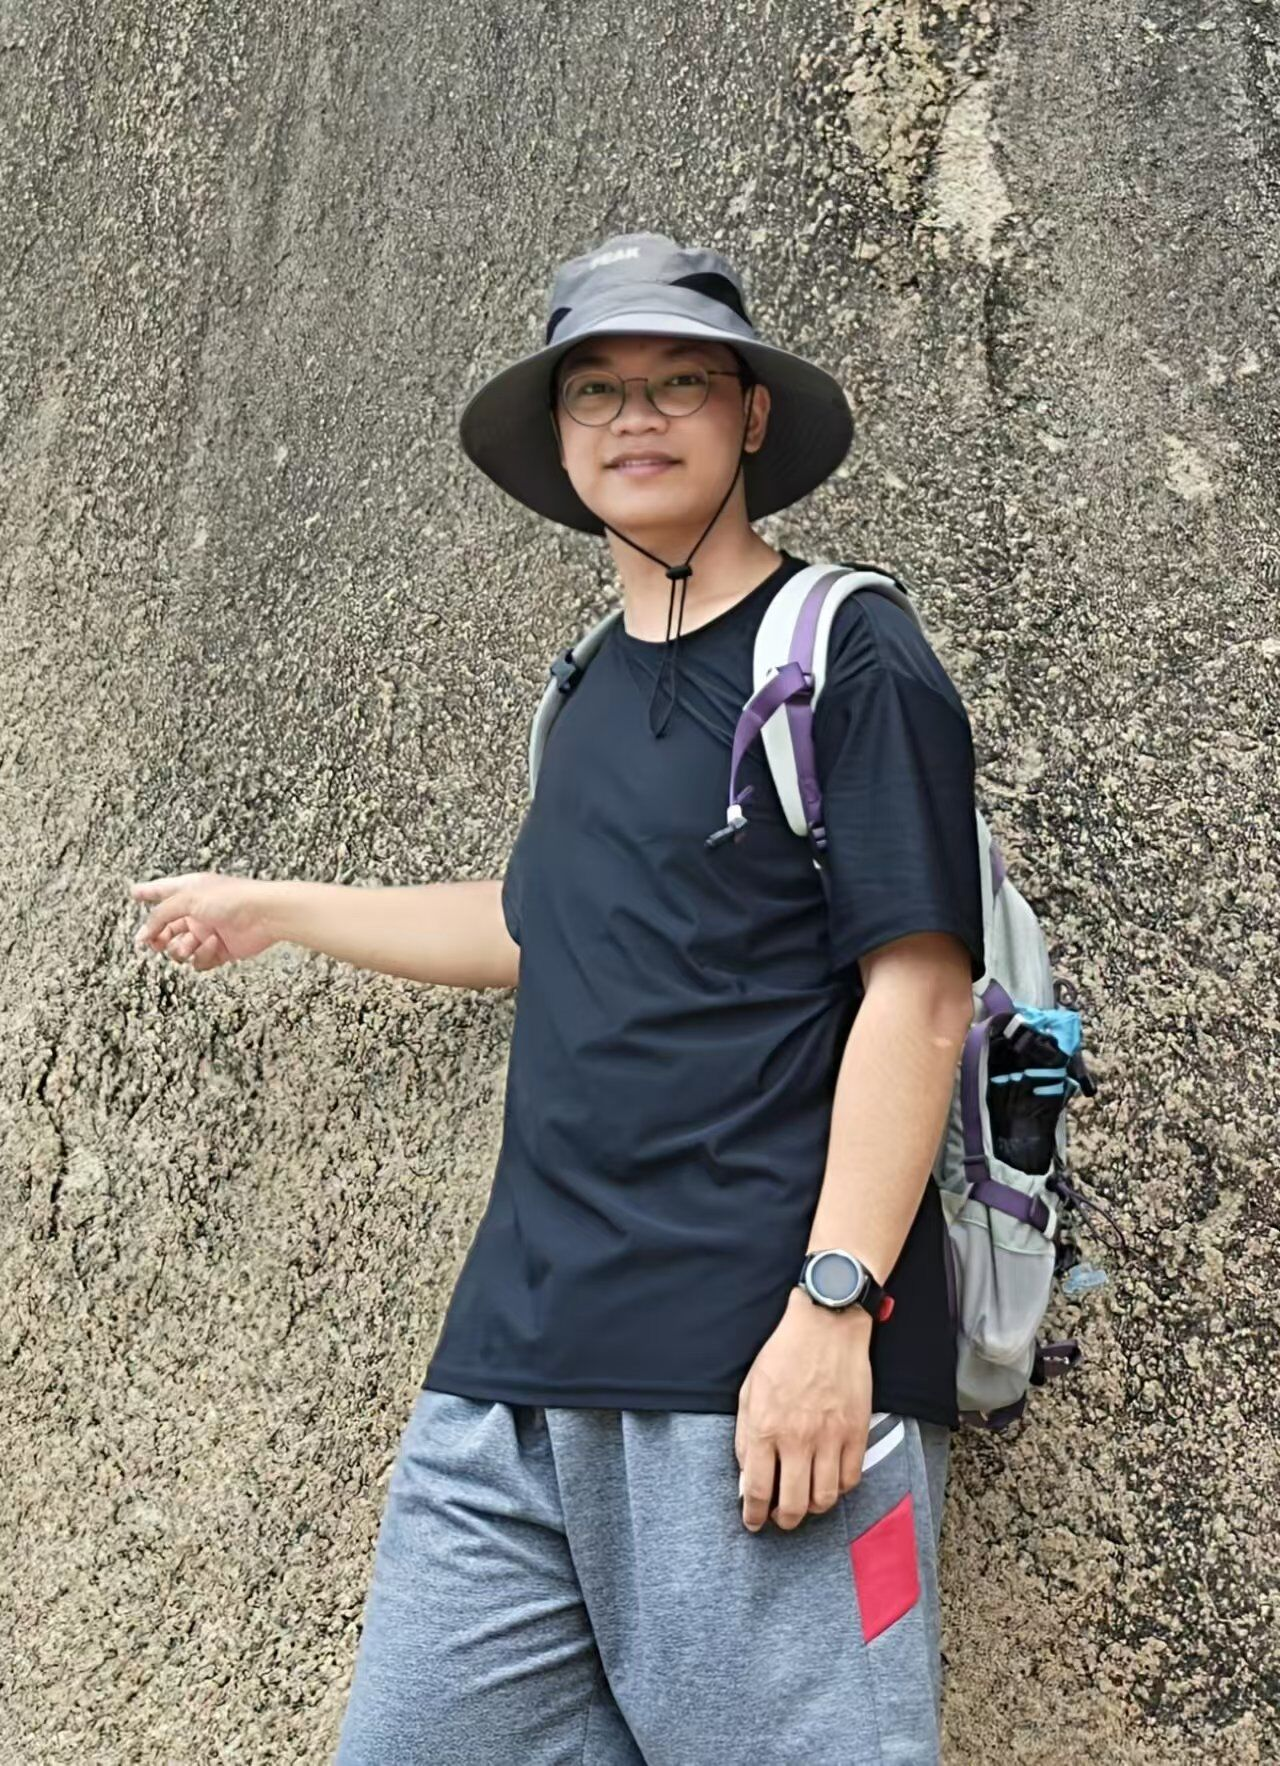
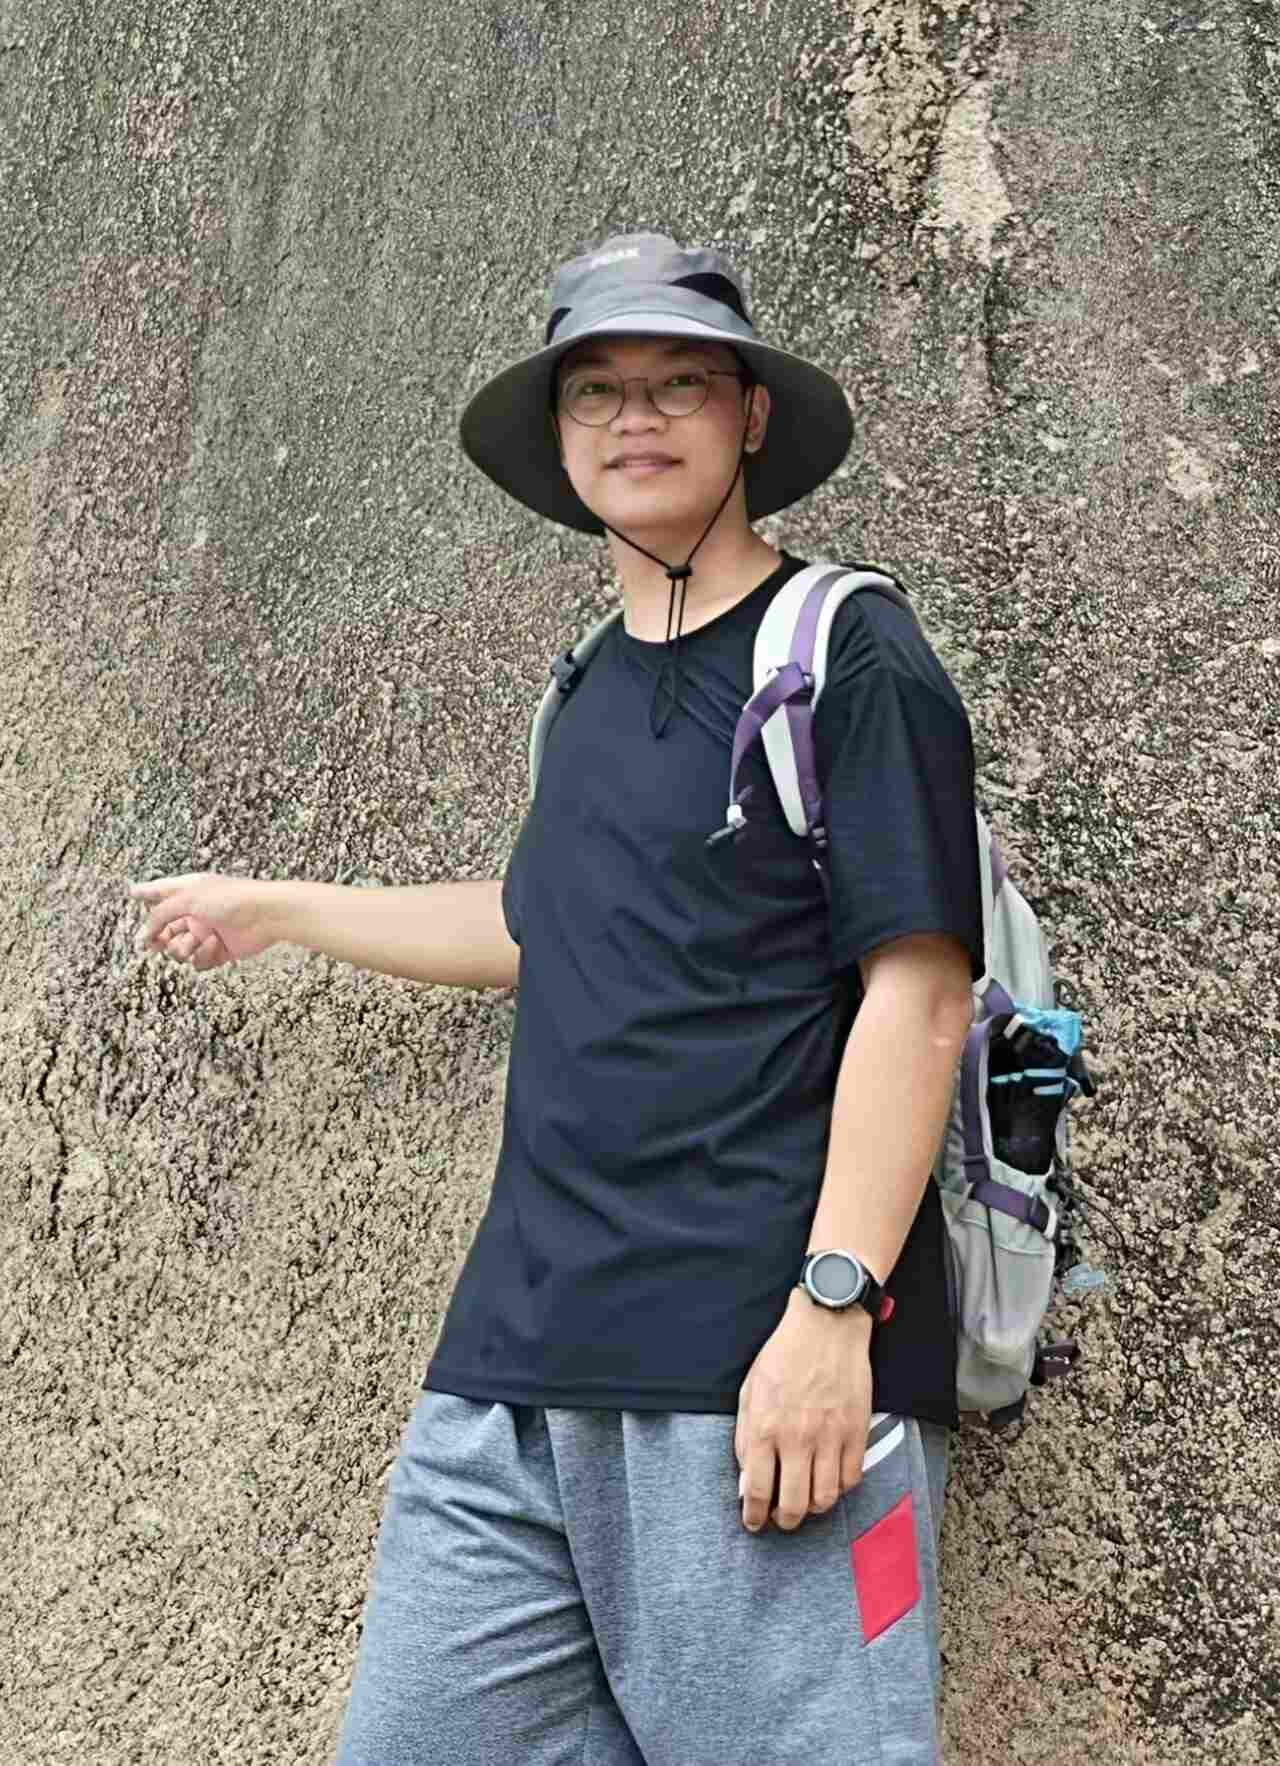
init

Changed region(s): [[0.25, 0.436, 0.2812, 0.4983], [0.9688, 0.436, 1.0, 0.4672], [0.9062, 0.7786, 0.9375, 0.8097]]

diff --git a/docs/group/README.md b/docs/group/README.md
@@ -111,7 +111,7 @@ The Visual Understanding and Generation (VUG) group is headed by **Prof. Yong Du
 
 </MemberCard>
 
-<MemberCard image="/students/hankunyu.png">
+<MemberCard image="/students/hankunyu.jpg">
 
 <font size=4>**Hankun Yu**</font>
 
